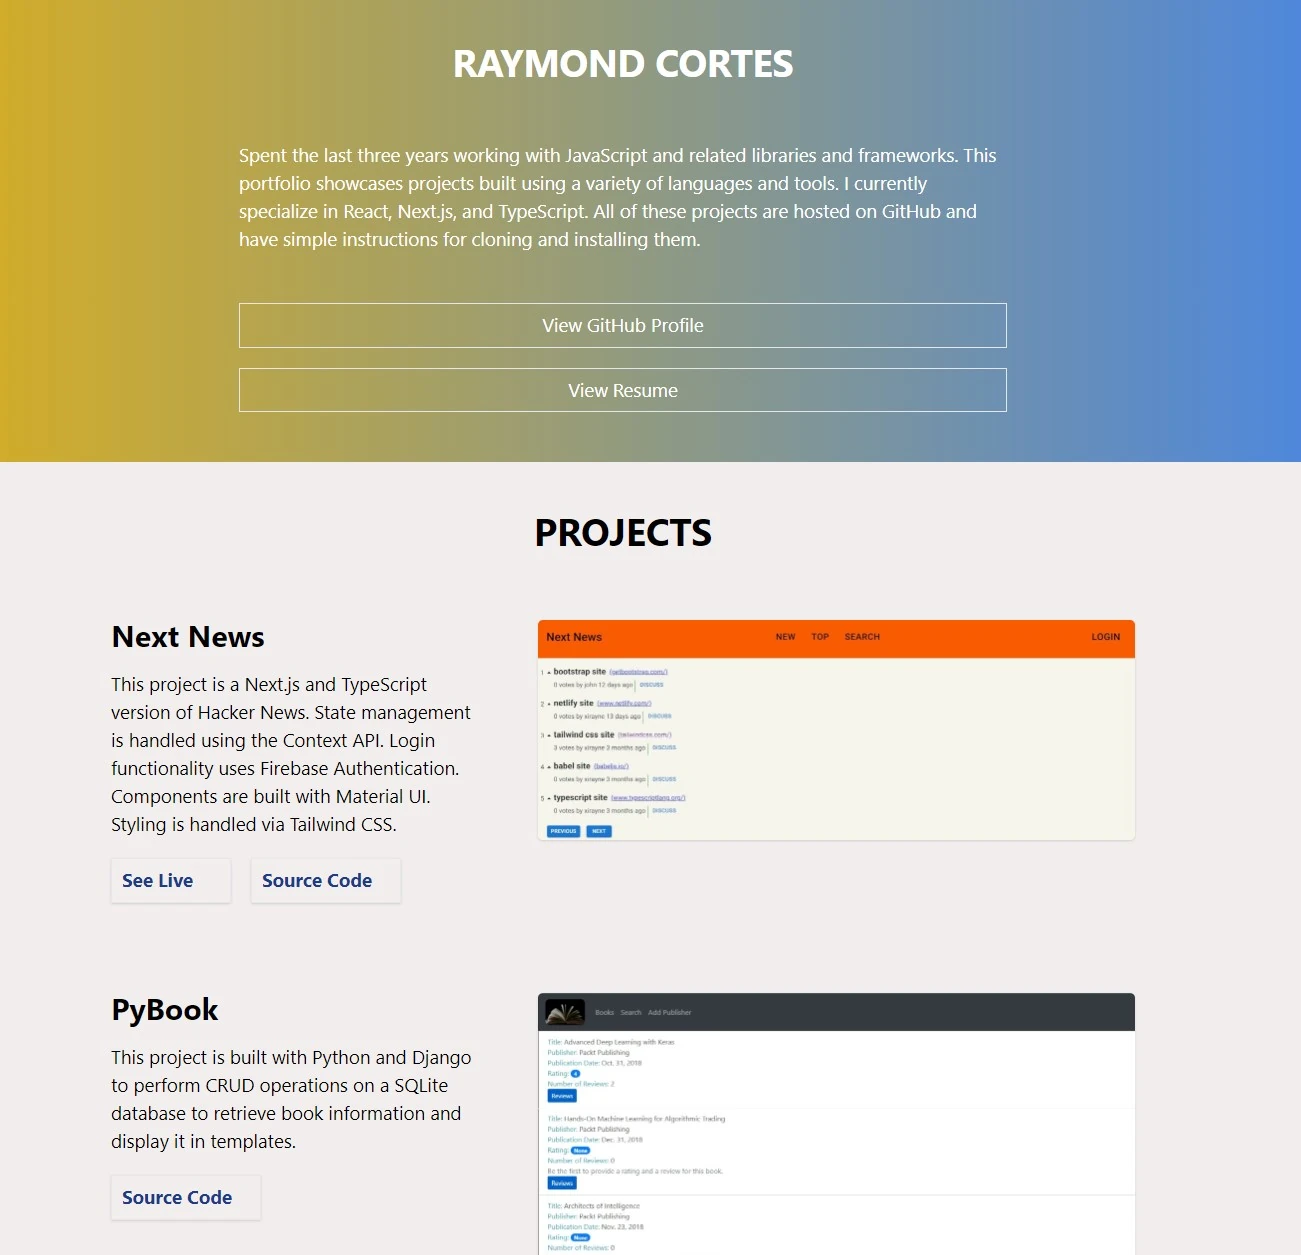
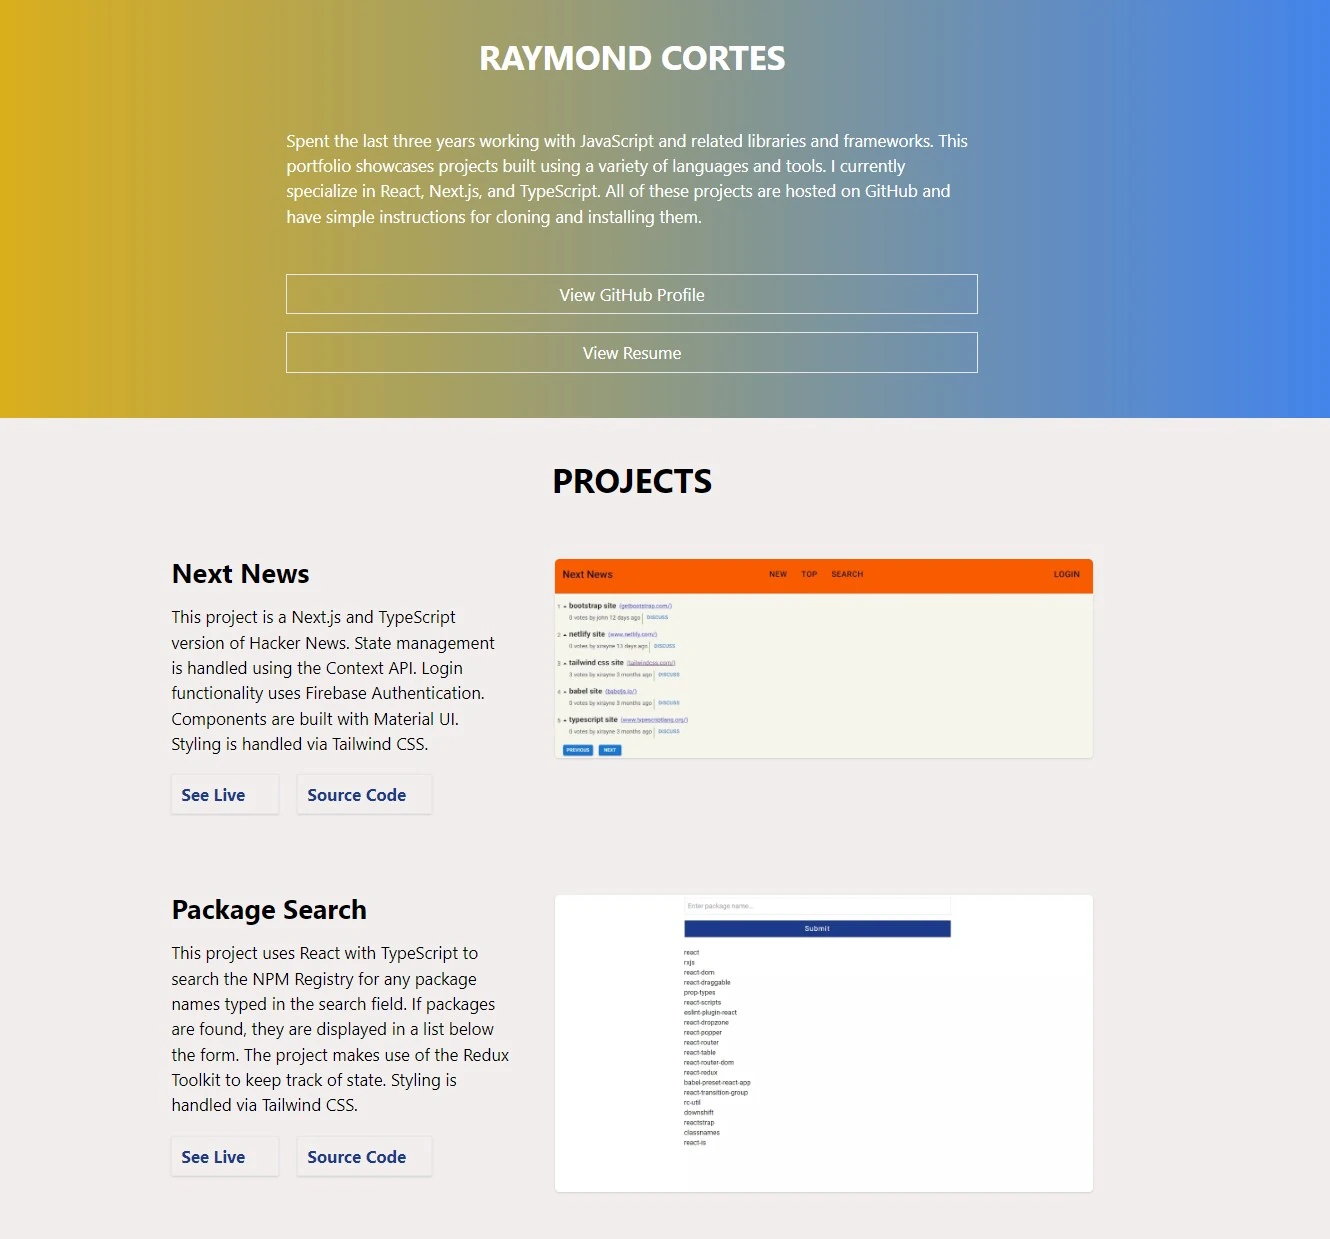
update components and project screenshot

diff --git a/src/components/Container/Container.tsx b/src/components/Container/Container.tsx
@@ -2,11 +2,11 @@ import React, { useLayoutEffect } from 'react';
 import gsap from 'gsap';
 import { Header } from '../Header/Header';
 import { NextNews } from '../NextNews/NextNews';
+import { PackageSearch } from '../PackageSearch/PackageSearch';
 import { PyBook } from '../PyBook/PyBook';
 import { JavaMusicPlayer } from '../JavaMusicPlayer/JavaMusicPlayer';
 import { CodingChallenge } from '../CodingChallenge/CodingChallenge';
 import { ReactBasics } from '../ReactBasics/ReactBasics';
-import { PackageSearch } from '../PackageSearch/PackageSearch';
 import { WasmDemo } from '../WasmDemo/WasmDemo';
 import { ReactDesign } from '../ReactDesign/ReactDesign';
 import { Footer } from '../Footer/Footer';
@@ -31,11 +31,11 @@ export const Container: React.FC = () => {
         PROJECTS
       </h2>
       <NextNews />
+      <PackageSearch />
       <PyBook />
       <JavaMusicPlayer />
       <CodingChallenge />
       <ReactBasics />
-      <PackageSearch />
       <WasmDemo />
       <ReactDesign />
       <Footer />

diff --git a/src/components/Resume/Skill.tsx b/src/components/Resume/Skill.tsx
@@ -4,7 +4,7 @@ import { SectionComponent } from './SectionComponent';
 export const Skill: FC = () => {
   const skills = {
     title: 'Skills',
-    description: `React, Next.js, TypeScript, Java, Python, SQL, MongoDB, Node.js, Django, Express.js, Git, GitHub, webpack, Maven, HTML, CSS, SCSS, Tailwind CSS, Linux, Docker, Google Cloud Platform, Amazon Web Services, Microsoft Azure`,
+    description: `React, Next.js, TypeScript, JavaScript, Node.js, Redux, HTML, CSS, SCSS, Tailwind CSS, Java, Python, SQL, MongoDB, Django, Express.js, Git, GitHub, webpack, Maven, Linux, Docker, Google Cloud Platform, Amazon Web Services, Microsoft Azure`,
   };
 
   return <SectionComponent {...skills} />;

diff --git a/src/components/PackageSearch/PackageSearch.tsx b/src/components/PackageSearch/PackageSearch.tsx
@@ -9,7 +9,7 @@ export const PackageSearch: FC = () => {
     title: 'Package Search',
     text: `This project uses React with TypeScript to search the NPM Registry for any package names typed in
     the search field. If packages are found, they are displayed in a list below the form. The project makes use
-    of Redux to keep track of state. Styling is handled via Tailwind CSS.`,
+    of the Redux Toolkit to keep track of state. Styling is handled via Tailwind CSS.`,
     liveAnchorHref: 'https://package-search.netlify.app/',
     sourceAnchorHref: 'https://github.com/xiraynedev/package-search',
     imageFull: packageSearchLarge,
